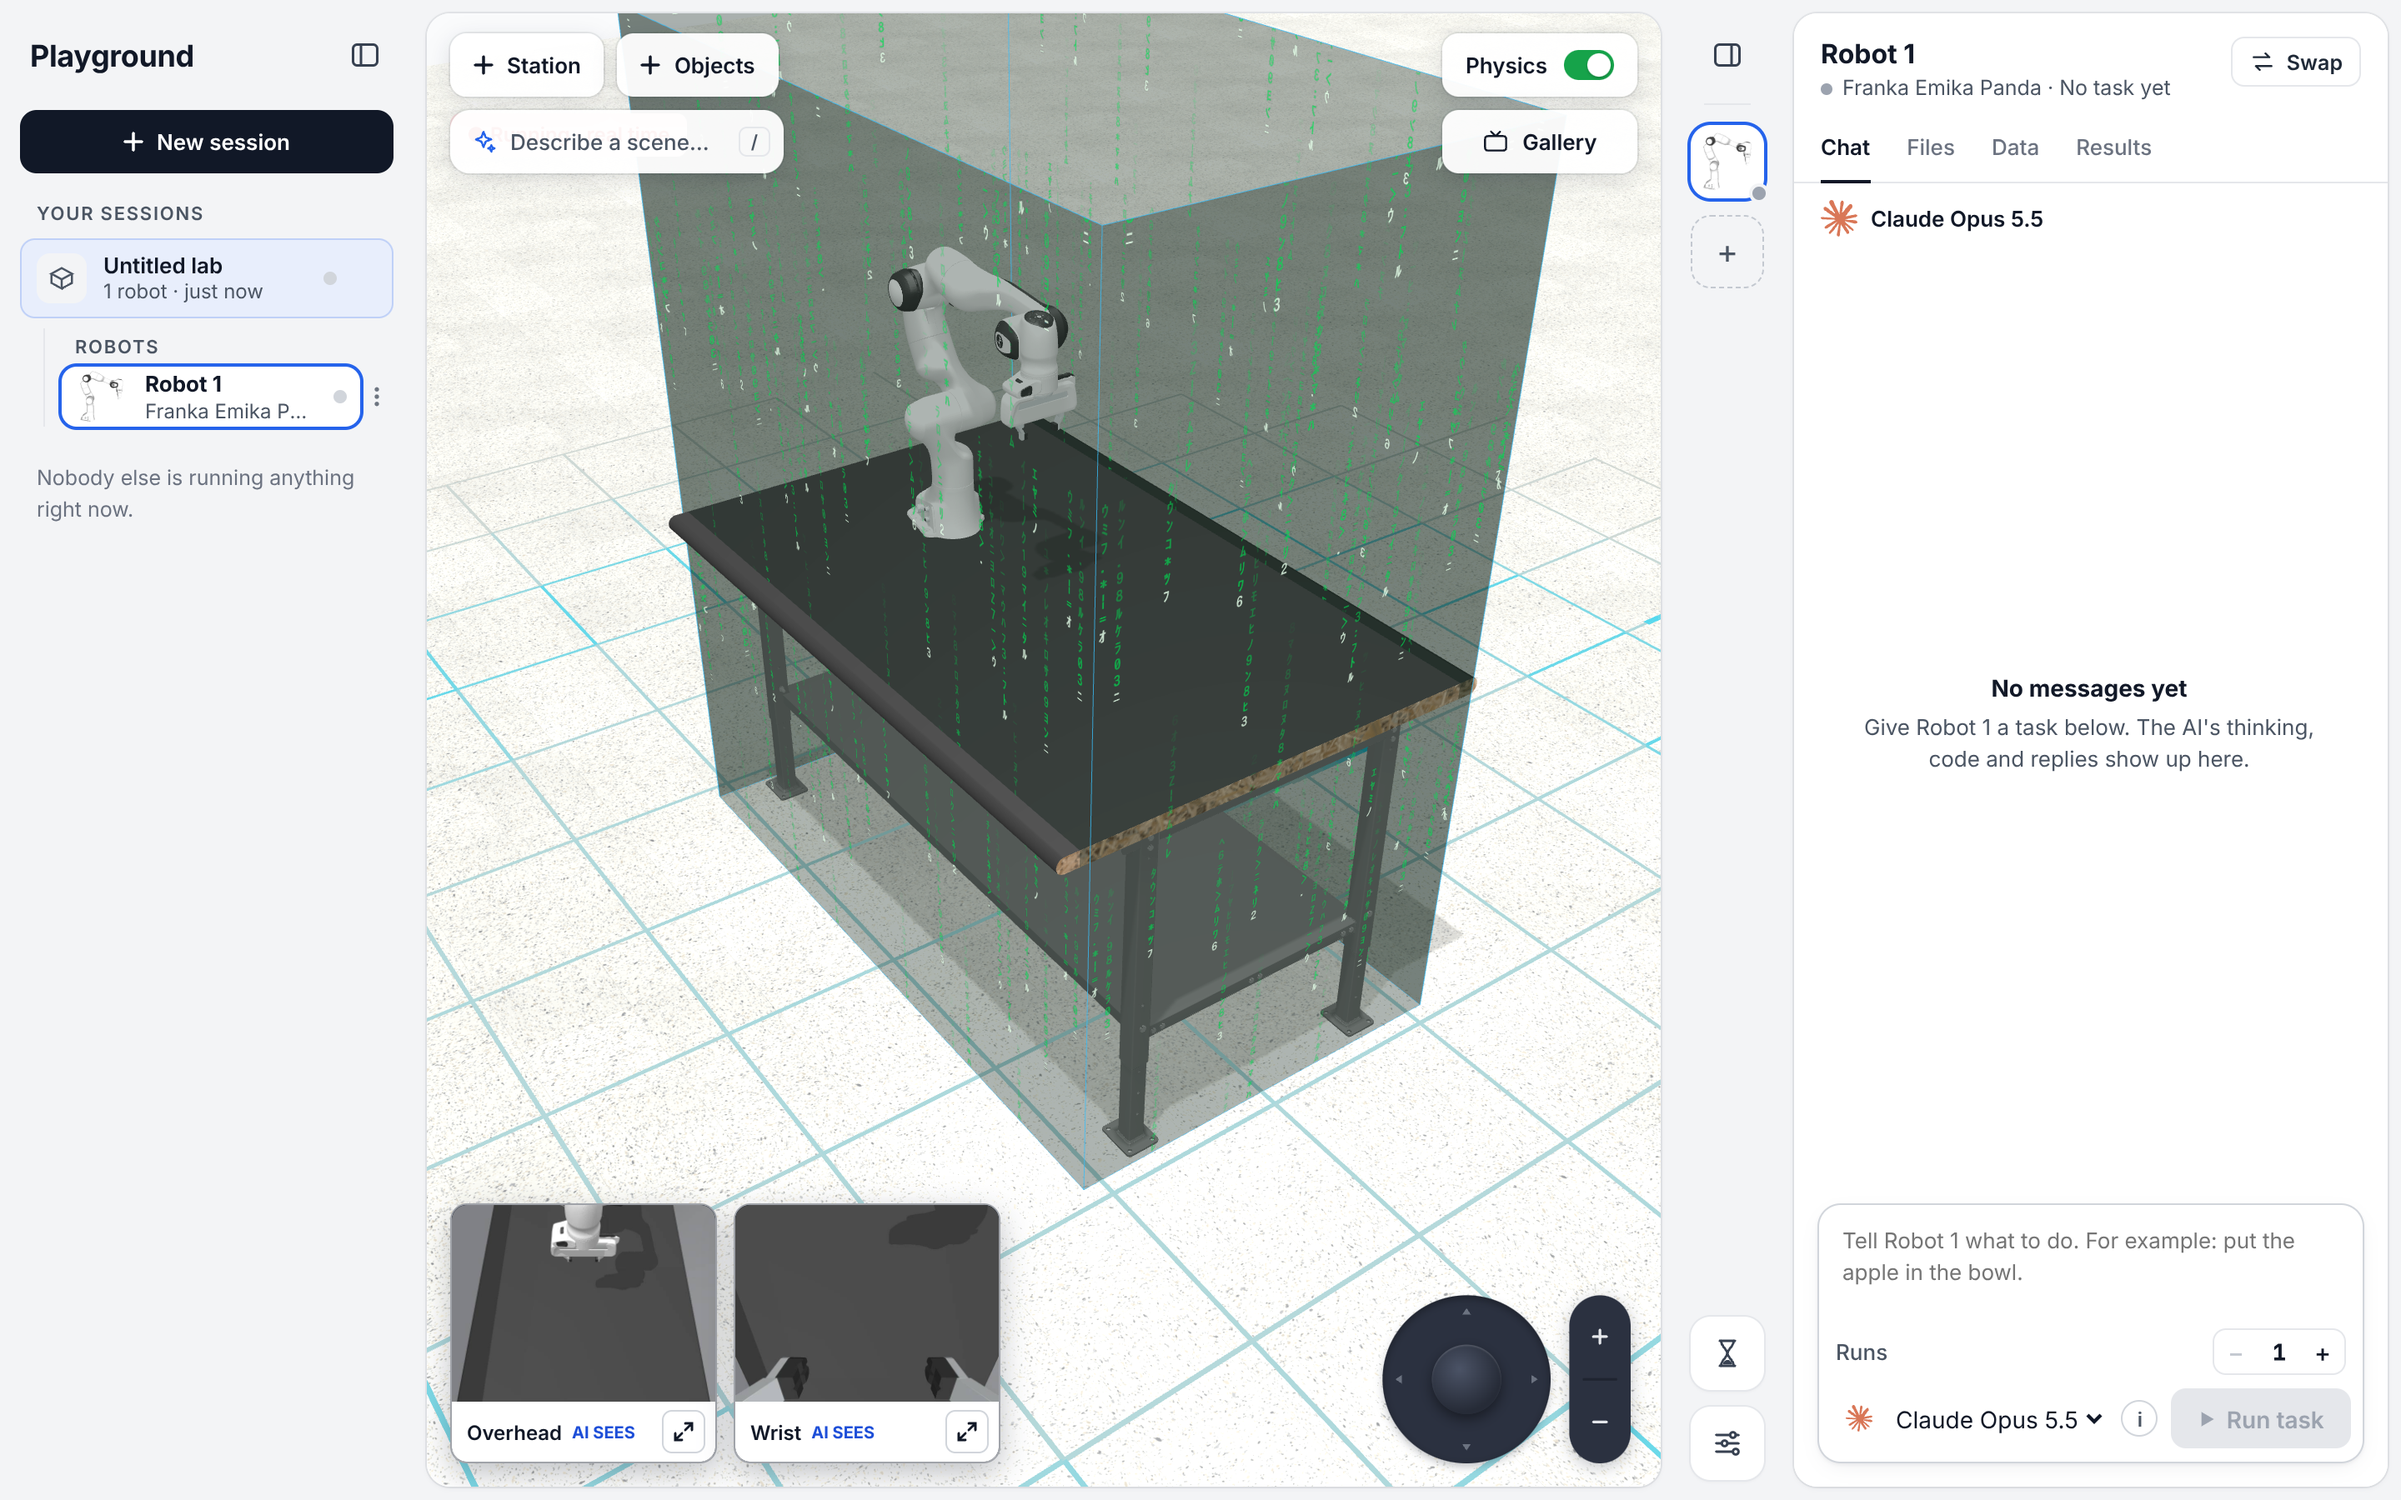
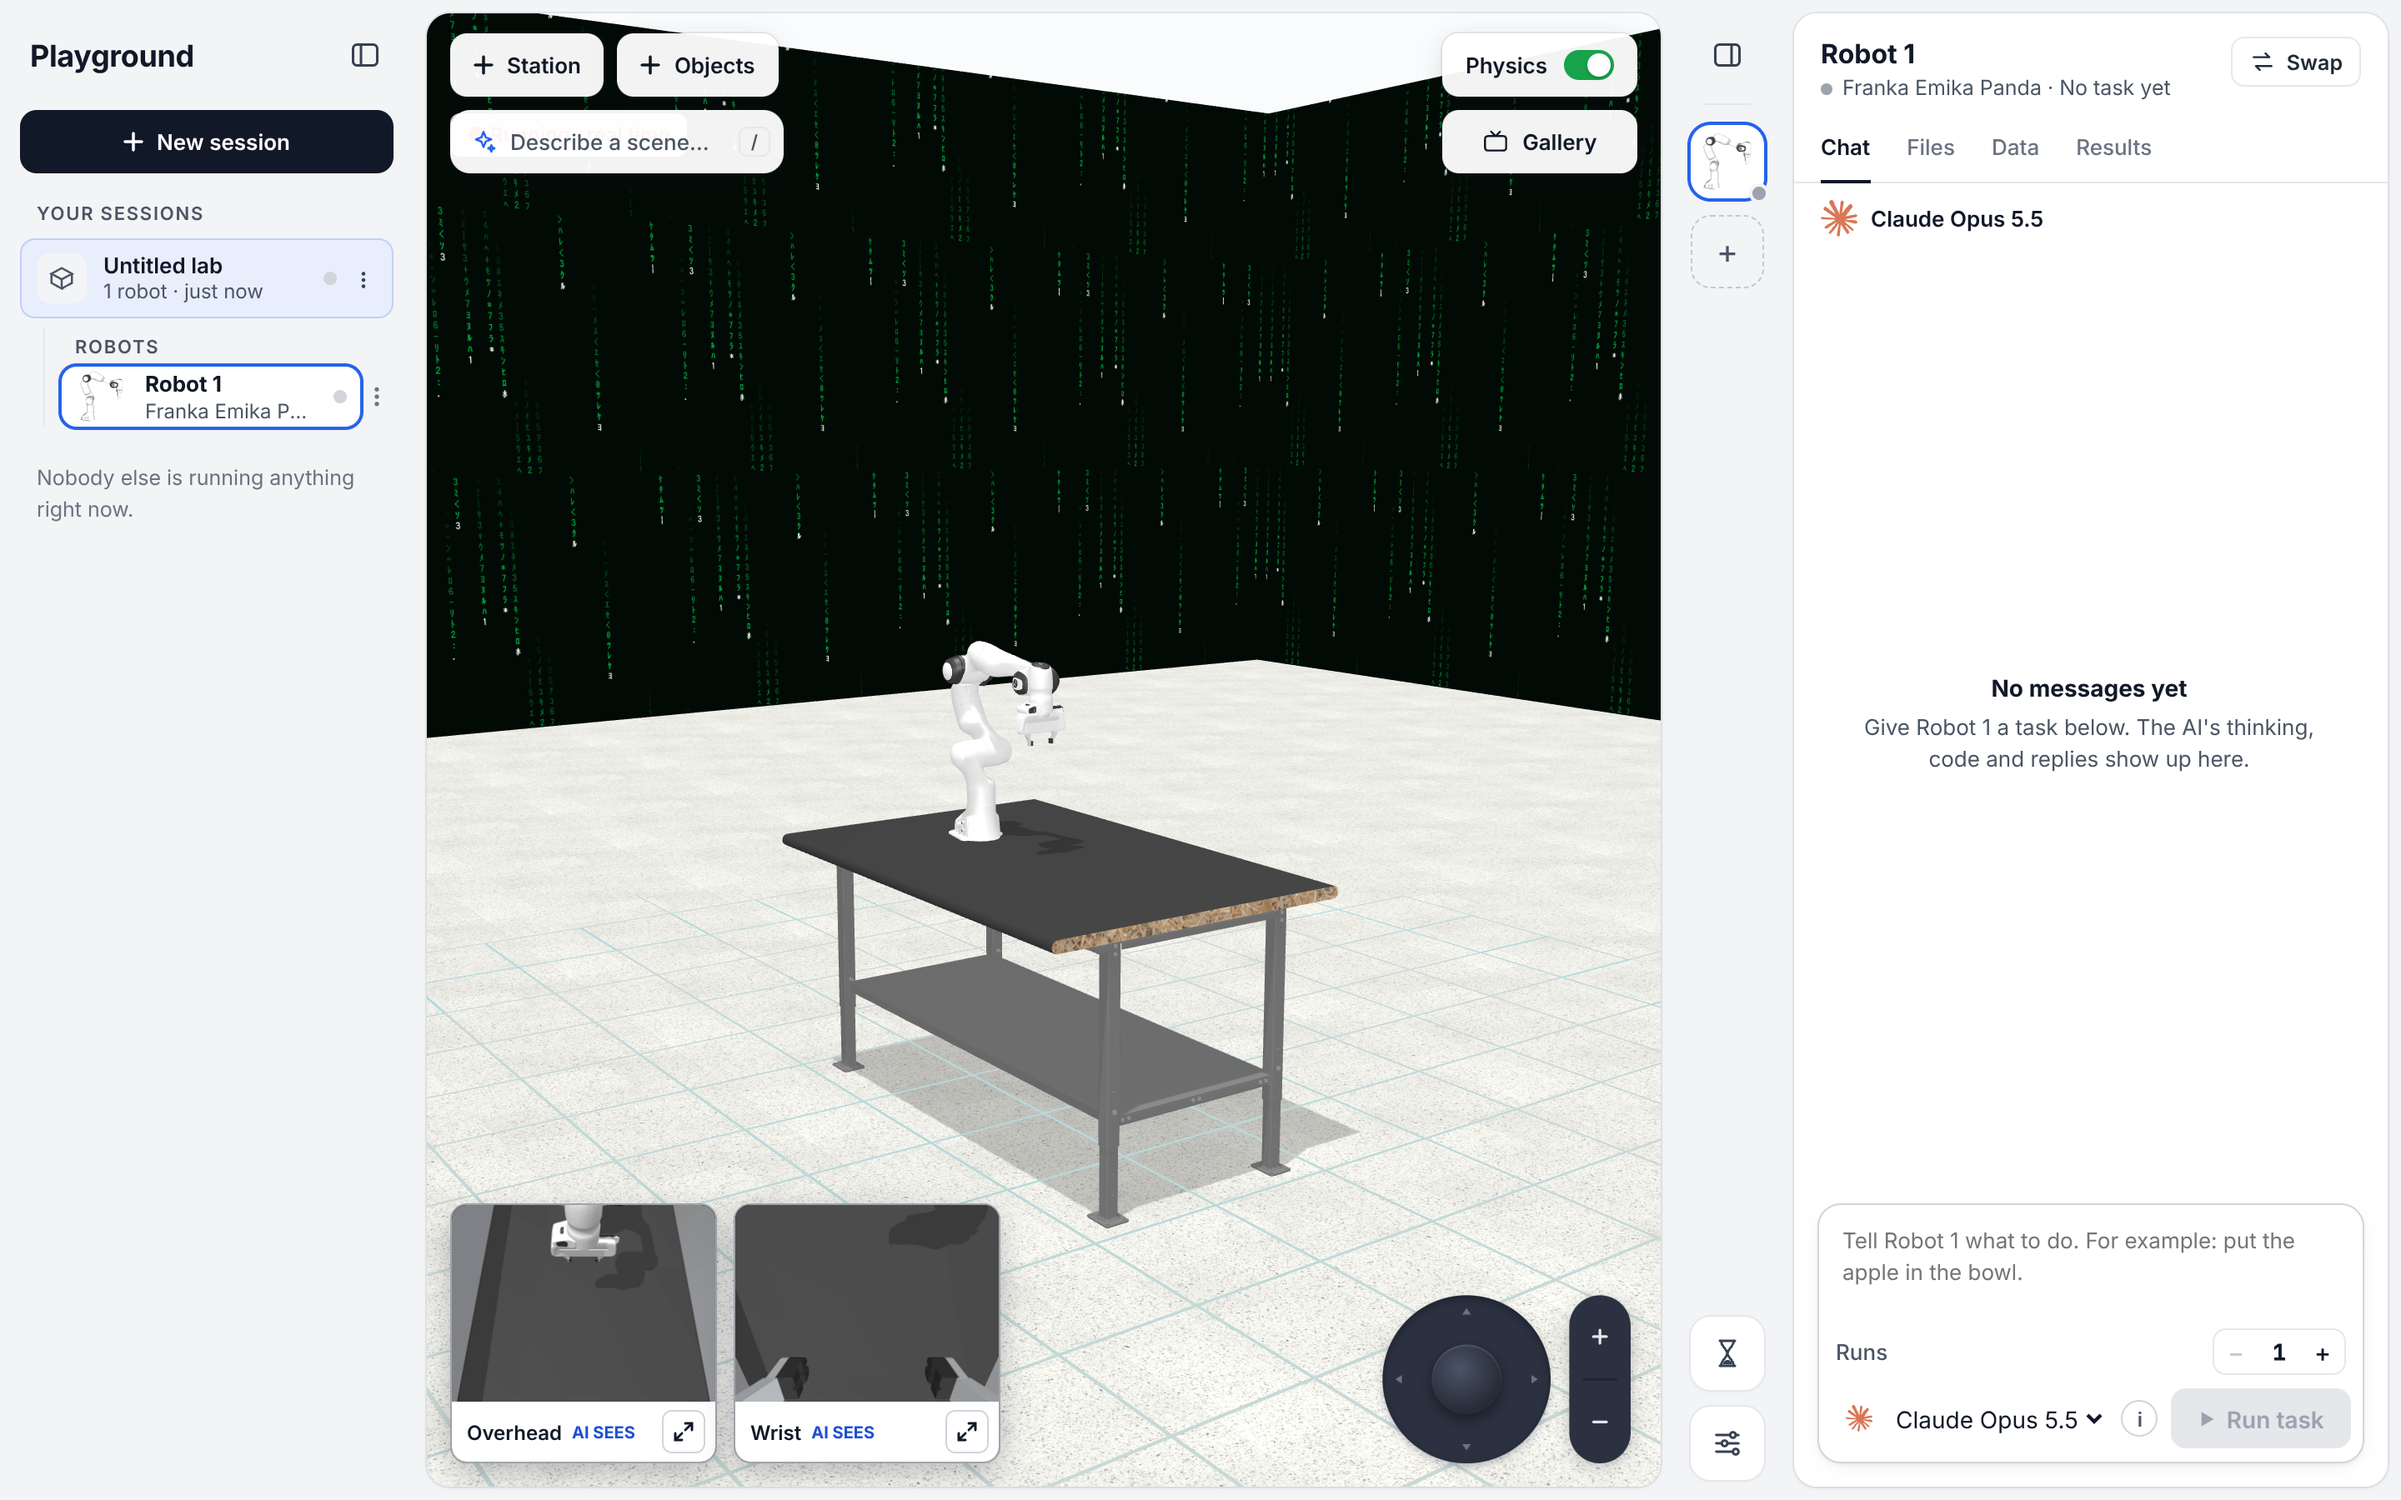
Matrix walls around the whole playground instead of each station's work box
Work boxes are back to their see-through box with a pulsing outline. The 3D view
now has a room around the 20 m floor with green falling code on dark walls
(seen from inside only, so a zoomed-out view still looks in). Robot cameras
are unchanged.

Claude-Session: https://claude.ai/code/session_015thBKCRMzVDwKeqKjG7Coc

diff --git a/playground/static/view3d.js b/playground/static/view3d.js
@@ -42,7 +42,7 @@ function applyDelta(c, d) {
 
 // ---------------------------------------------------------------- the light Tron floor (tron.py)
 const TRON = {CYAN: [0.0, 0.85, 1.0], STEP: 0.5, REACH: 4.0, SEG: 0.5, Z: 0.0015, WIDTH: 0.012,
-              RIPPLE_SPEED: 1.1, RIPPLE_EVERY: 4.0, STREAKS: 10, STREAK_SPEED: 1.6, TRAIL: 6, FLOOR: [0.852, 0.851, 0.828]}  // FLOOR: the vinyl tiles' average colour;
+              RIPPLE_SPEED: 1.1, RIPPLE_EVERY: 4.0, STREAKS: 10, STREAK_SPEED: 1.6, TRAIL: 6, FLOOR: [0.852, 0.851, 0.828]};   // FLOOR: the vinyl tiles' average colour
 const hash = (i, k) => { const x = Math.sin(i * 12.9898 + k * 78.233) * 43758.5453; return x - Math.floor(x); };
 function tronShapes(t) {
   const T = TRON, out = [], lines = [], pieces = [];
@@ -381,13 +381,11 @@ export function start({stage, base = '', onReady}) {
     for (const k of ['box', 'cylinder']) for (let i = used[k]; i < pool[k].length; i++) pool[k][i].visible = false;
   }
 
-  // Work boxes: around each robot at work, the space it works in. Its walls show green "digital
-  // rain" falling down them (Matrix style), with a thin outline that glows in and out (the
-  // robots' own cameras see plain solid walls there instead).
-  const zonesGroup = new THREE.Group(); scene.add(zonesGroup);
-  const zonePool = [];
-  const ZONE_COL = new THREE.Color(0x38BDF8);
-  const RAIN = {PX: 528, CELL: 22, TILE: 0.9, FPS: 20};      // TILE: metres of wall one picture covers
+  // ---------------------------------------------------------------- the Matrix room
+  // The playground's own walls (the 3D view only): a room around the whole floor, with green
+  // "digital rain" falling down dark walls. Nothing in the physics, and the robots' cameras
+  // never see it.
+  const RAIN = {PX: 528, CELL: 22, TILE: 2.2, FPS: 20};      // TILE: metres of wall one picture covers
   const rainCanvas = document.createElement('canvas'); rainCanvas.width = rainCanvas.height = RAIN.PX;
   const rainCtx = rainCanvas.getContext('2d');
   const rainTex = new THREE.CanvasTexture(rainCanvas);
@@ -425,48 +423,60 @@ export function start({stage, base = '', onReady}) {
     rainMaps.push(map);
     return new THREE.MeshBasicMaterial({map, transparent: true, opacity: 0.9, depthWrite: false, side: THREE.DoubleSide});
   }
-  const NO_FACE = new THREE.MeshBasicMaterial({visible: false});
-  const GLASS = new THREE.MeshBasicMaterial({color: 0x00140a, transparent: true, opacity: 0.32, depthWrite: false, side: THREE.DoubleSide});
+  const ROOM = {HALF: 10, HEIGHT: 6};            // the floor plane is 20 m square (world.py)
+  function makeRoom() {
+    const g = new THREE.Group();
+    for (let k = 0; k < 4; k++) {
+      const plane = new THREE.PlaneGeometry(2 * ROOM.HALF, ROOM.HEIGHT);
+      const wall = new THREE.Group();
+      wall.add(new THREE.Mesh(plane, new THREE.MeshBasicMaterial({color: 0x020a05})));
+      const mat = rainMaterial(); mat.opacity = 1; mat.side = THREE.FrontSide;   // seen from inside only: zoomed out, you see in
+      mat.map.repeat.set(2 * ROOM.HALF / RAIN.TILE, ROOM.HEIGHT / RAIN.TILE);
+      const code = new THREE.Mesh(plane, mat); code.position.z = 0.01; wall.add(code);
+      // stand it up (z up), facing into the room, on the floor's edge
+      wall.rotation.set(Math.PI / 2, 0, 0); wall.rotateOnWorldAxis(new THREE.Vector3(0, 0, 1), k * Math.PI / 2 + Math.PI);
+      const a = k * Math.PI / 2 - Math.PI / 2;
+      wall.position.set(Math.cos(a) * ROOM.HALF, Math.sin(a) * ROOM.HALF, ROOM.HEIGHT / 2);
+      g.add(wall);
+    }
+    return g;
+  }
+  scene.add(makeRoom());
+
+  // Work boxes: around each robot at work, the space it works in. Nearly clear, with a thin
+  // outline that glows in and out (the robots' own cameras see solid walls there instead).
+  const zonesGroup = new THREE.Group(); scene.add(zonesGroup);
+  const zonePool = [];
+  const ZONE_COL = new THREE.Color(0x38BDF8);
   function setZones(zones) {
     zones = zones || [];
     for (let i = 0; i < zones.length; i++) {
       let z = zonePool[i];
       if (!z) {
-        // turned so each wall's picture stands upright (z up): faces 0-1 face x, 2-3 the top and
-        // floor, 4-5 face y
-        const box = new THREE.BoxGeometry(2, 2, 2).rotateX(Math.PI / 2);
-        const wx = rainMaterial(), wy = rainMaterial();  // the walls facing x, and those facing y
-        const fill = new THREE.Mesh(box, [wx, wx, NO_FACE, NO_FACE, wy, wy]);  // no rain on the top or floor
-        const glass = new THREE.Mesh(box, [GLASS, GLASS, NO_FACE, NO_FACE, GLASS, GLASS]);   // dark glass behind the code
-        glass.renderOrder = 4;
+        const box = new THREE.BoxGeometry(2, 2, 2);
+        const fill = new THREE.Mesh(box, new THREE.MeshBasicMaterial({color: ZONE_COL, transparent: true, opacity: 0.035, depthWrite: false, side: THREE.DoubleSide}));
         const edges = new THREE.LineSegments(new THREE.EdgesGeometry(box), new THREE.LineBasicMaterial({color: ZONE_COL, transparent: true, opacity: 0.6, depthWrite: false}));
         fill.renderOrder = edges.renderOrder = 5;
-        const g = new THREE.Group(); g.add(glass, fill, edges); zonesGroup.add(g);
-        z = zonePool[i] = {g, fill, edges, wx, wy};
+        const g = new THREE.Group(); g.add(fill, edges); zonesGroup.add(g);
+        z = zonePool[i] = {g, fill, edges};
       }
       const d = zones[i];
       z.g.visible = true;
       z.g.scale.set(d.half[0], d.half[1], d.height / 2);
       z.g.position.set(d.pos[0], d.pos[1], d.height / 2);
       z.g.rotation.set(0, 0, d.yaw || 0);
-      // glyphs the same size on every wall, whatever the box's size
-      z.wx.map.repeat.set(2 * d.half[1] / RAIN.TILE, d.height / RAIN.TILE);
-      z.wy.map.repeat.set(2 * d.half[0] / RAIN.TILE, d.height / RAIN.TILE);
       z.waiting = !!d.waiting;
     }
     for (let i = zones.length; i < zonePool.length; i++) zonePool[i].g.visible = false;
   }
   function pulseZones(t) {
     const k = 0.5 + 0.5 * Math.sin(t * 2.6);           // a slow breath, about 2.4 s
-    let any = false;
     for (const z of zonePool) {
       if (!z.g.visible) continue;
-      any = true;
       const lo = z.waiting ? 0.18 : 0.35, hi = z.waiting ? 0.35 : 0.95;
       z.edges.material.opacity = lo + (hi - lo) * k;
-      z.wx.opacity = z.wy.opacity = (z.waiting ? 0.35 : 0.7) + 0.2 * k;
+      z.fill.material.opacity = (z.waiting ? 0.015 : 0.03) + 0.03 * k;
     }
-    if (any) drawRain(t);
   }
   V.setZones = setZones;
 
@@ -501,6 +511,7 @@ export function start({stage, base = '', onReady}) {
     if (V.onFrame) V.onFrame();
     if (floorFx) drawFloorFx(performance.now() / 1000);
     pulseZones(performance.now() / 1000);
+    drawRain(performance.now() / 1000);
     renderer.render(scene, camera);
     requestAnimationFrame(frame);
   }
